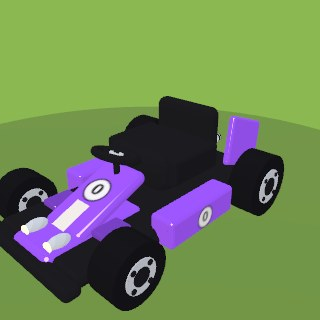
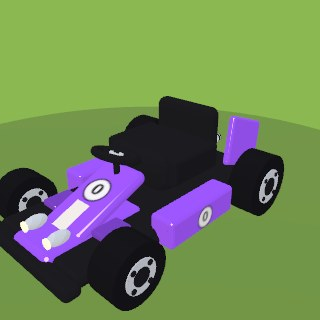
Raise GP + finned headlamps so they sit proud of the nose
Both pods were more than half-sunk into the stub's top face (y=0.57):
the GP paint nacelles sat at y=0.58 and the finned chrome teardrops at
y=0.60 with a 0.105 radius. Both now perch at ~y=0.66 — bottoms just
grazing the panel so they read as mounted lamps, not embedded bumps —
with the flat lens discs raised to match. Catalog thumbnails for the
GP/finned presets regenerated.

Also bumps the headless-check page-load timeout to 150s to match the
other probes (SwiftShader's first load can exceed the old 30s).

Claude-Session: https://claude.ai/code/session_017fyz1DfGtQ1NoLSq3UX5Bd

Changed region(s): [[0.0625, 0.6562, 0.25, 0.8125]]

diff --git a/src/models.js b/src/models.js
@@ -1477,22 +1477,23 @@ export function createKartModel(bodyColor = 0xe53935, opts = {}) {
           cupBack.scale.set(1, 1, 0.55);
         }
       } else if (st.wing === "fin") {
-        // Speedster: streamlined chrome TEARDROP nacelles laid low on the
-        // nose, tapering back — jet-age fairings with flat faces.
+        // Speedster: streamlined chrome TEARDROP nacelles riding ON the nose
+        // (bottoms just kissing the stub's top face), tapering back — jet-age
+        // fairings with flat faces.
         for (const sx of [-1, 1]) {
           const drop = add(new THREE.Mesh(new THREE.SphereGeometry(0.105, 14, 12), chrome));
-          drop.position.set(sx * 0.3, 0.6, snout + 0.14);
+          drop.position.set(sx * 0.3, 0.665, snout + 0.14);
           drop.scale.set(1, 1, 1.9);
         }
       } else {
-        // GP: compact twin racing lamps in BODY-PAINT nacelles, half-sunk into
-        // the stub tip and pointing dead ahead.
+        // GP: compact twin racing lamps in BODY-PAINT nacelles perched on the
+        // stub tip (bottoms grazing its top face) and pointing dead ahead.
         for (const sx of [-1, 1]) {
           const nac = add(new THREE.Mesh(new THREE.CylinderGeometry(0.105, 0.105, 0.15, 14), paint));
           nac.rotation.x = Math.PI / 2;
-          nac.position.set(sx * 0.26, 0.58, snout + 0.28);
+          nac.position.set(sx * 0.26, 0.655, snout + 0.28);
           const nacBack = add(new THREE.Mesh(new THREE.SphereGeometry(0.105, 12, 10), paint));
-          nacBack.position.set(sx * 0.26, 0.58, snout + 0.21);
+          nacBack.position.set(sx * 0.26, 0.655, snout + 0.21);
           nacBack.scale.set(1, 1, 0.55);
         }
       }
@@ -1693,8 +1694,8 @@ export function createKartModel(bodyColor = 0xe53935, opts = {}) {
     const lamp = st.wing === "lip"
       ? { x: 0.34, y: 0.68, z: sn + 0.27, r: 0.09 }   // roadster stalk cups
       : st.wing === "fin"
-        ? { x: 0.3, y: 0.6, z: sn + 0.33, r: 0.085 }  // speedster teardrop tips
-        : { x: 0.26, y: 0.58, z: sn + 0.36, r: 0.085 }; // GP nacelles
+        ? { x: 0.3, y: 0.665, z: sn + 0.33, r: 0.085 }  // speedster teardrop tips
+        : { x: 0.26, y: 0.655, z: sn + 0.36, r: 0.085 }; // GP nacelles
     for (const sx of [-1, 1]) {
       const lens = new THREE.Mesh(new THREE.CylinderGeometry(lamp.r, lamp.r, 0.035, 16), glass);
       lens.rotation.x = Math.PI / 2;
